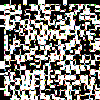
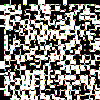
Updated canada.pymy1.png .

diff --git a/canada.py b/canada.py
@@ -34,7 +34,7 @@ moverPieza(outp,1,9,0,18)
 moverPieza(outp,2,8,0,7)
 moverPieza(outp,3,0,0,17)
 moverPieza(outp,4,7,0,6)
-moverPieza(outp,5,3,0,2)
+moverPieza(outp,5,3,0,8)
 moverPieza(outp,7,17,0,16)
 moverPieza(outp,8,8,0,1)
 moverPieza(outp,10,1,0,12)
@@ -42,7 +42,7 @@ moverPieza(outp,11,11,0,10)
 moverPieza(outp,12,16,0,4)
 moverPieza(outp,13,6,0,14)
 moverPieza(outp,15,5,0,15)
-moverPieza(outp,16,5,0,8)
+moverPieza(outp,16,5,0,2)
 moverPieza(outp,17,4,0,5)
 moverPieza(outp,17,12,0,3)
 moverPieza(outp,18,10,0,13)
